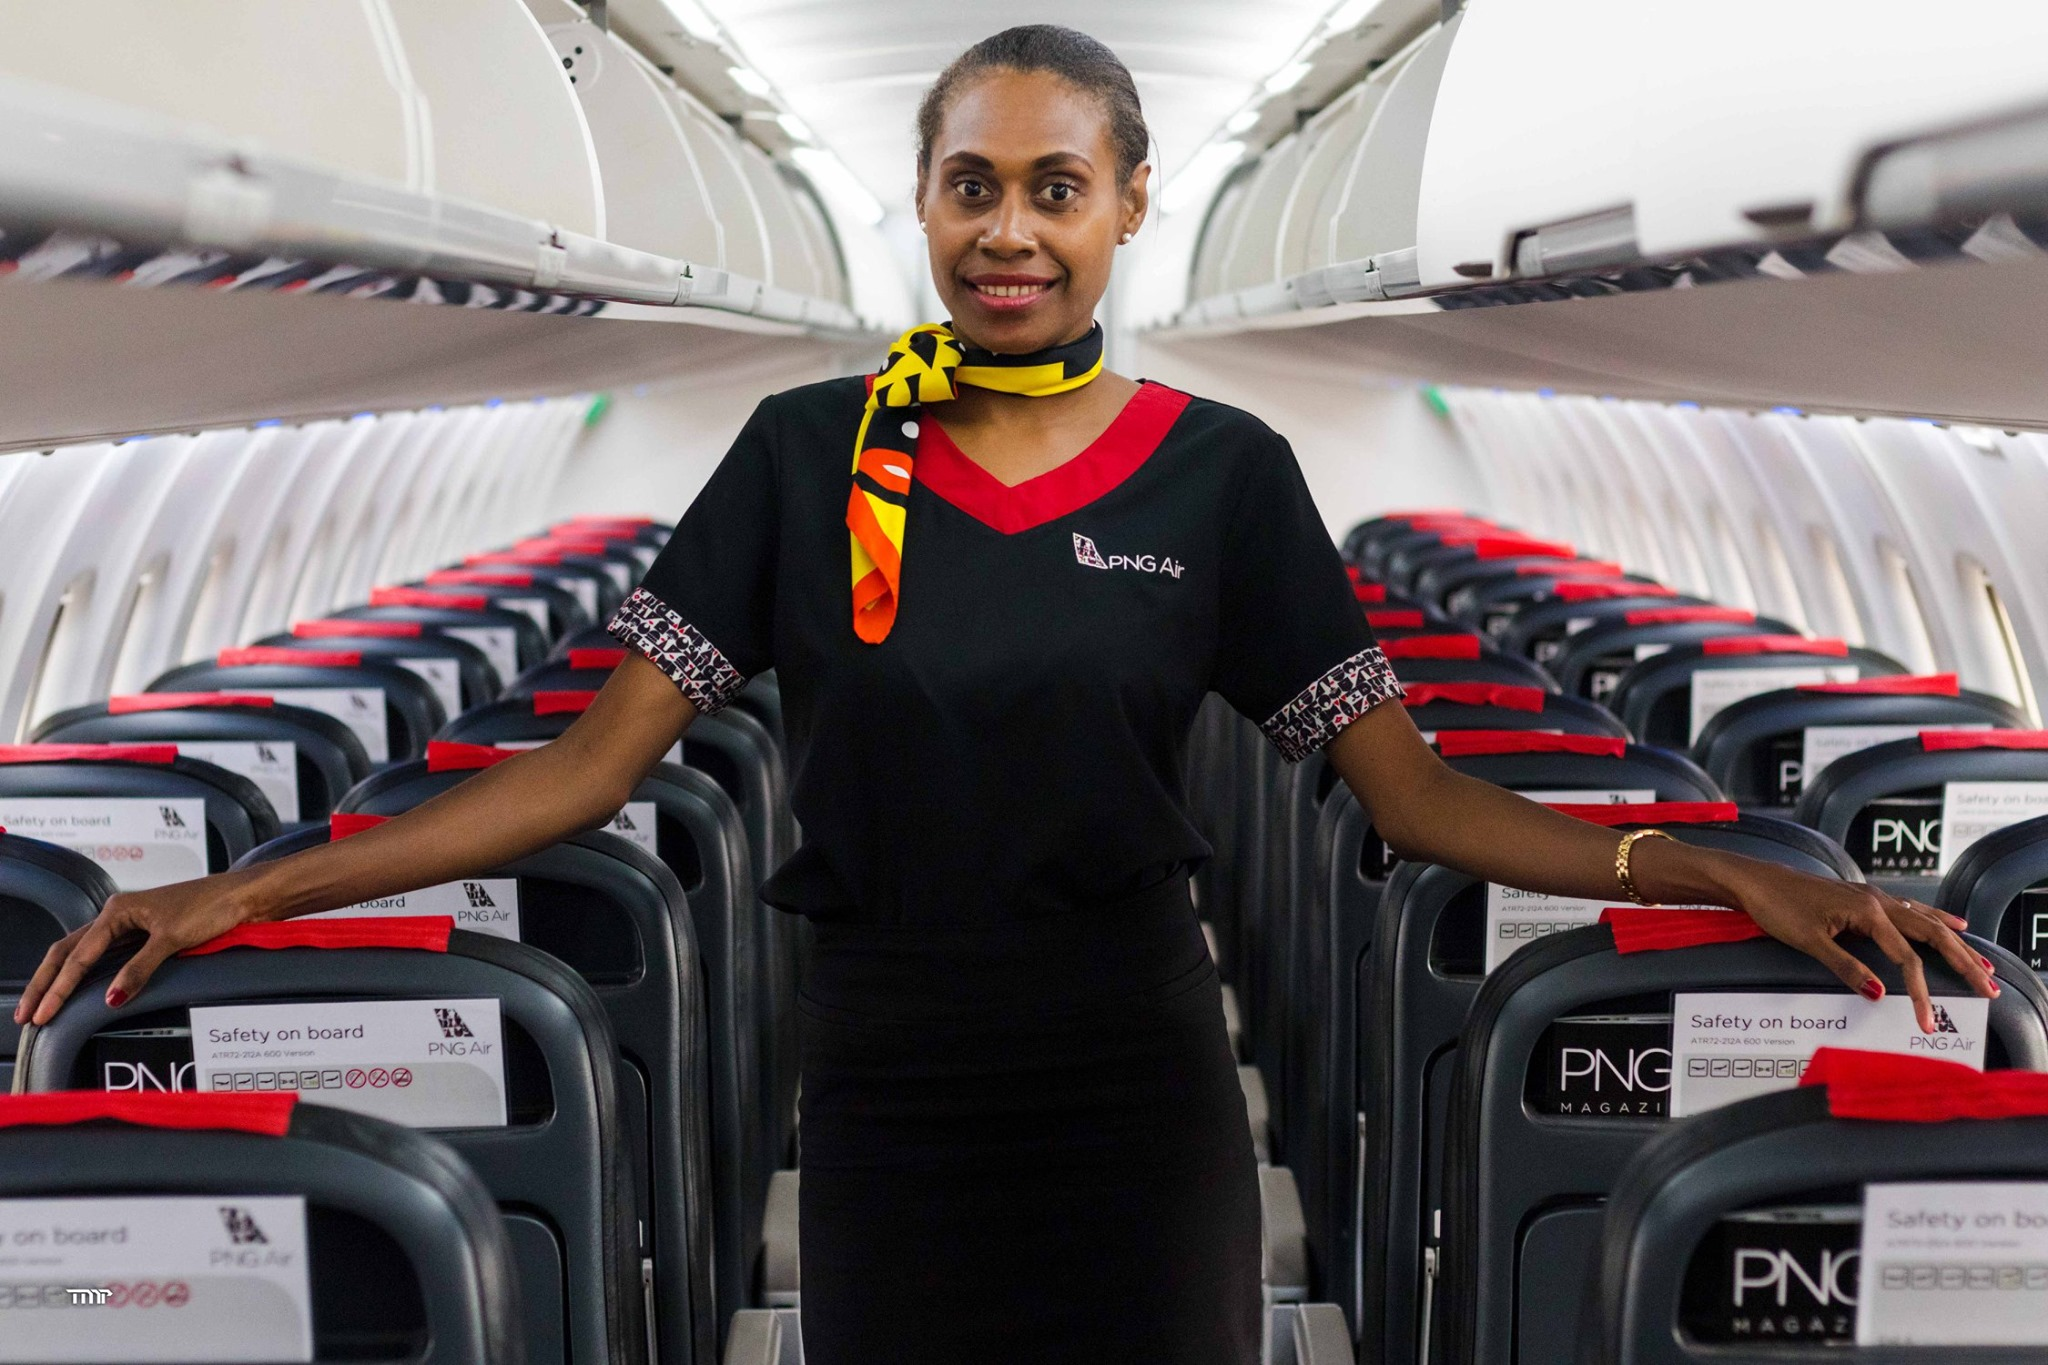
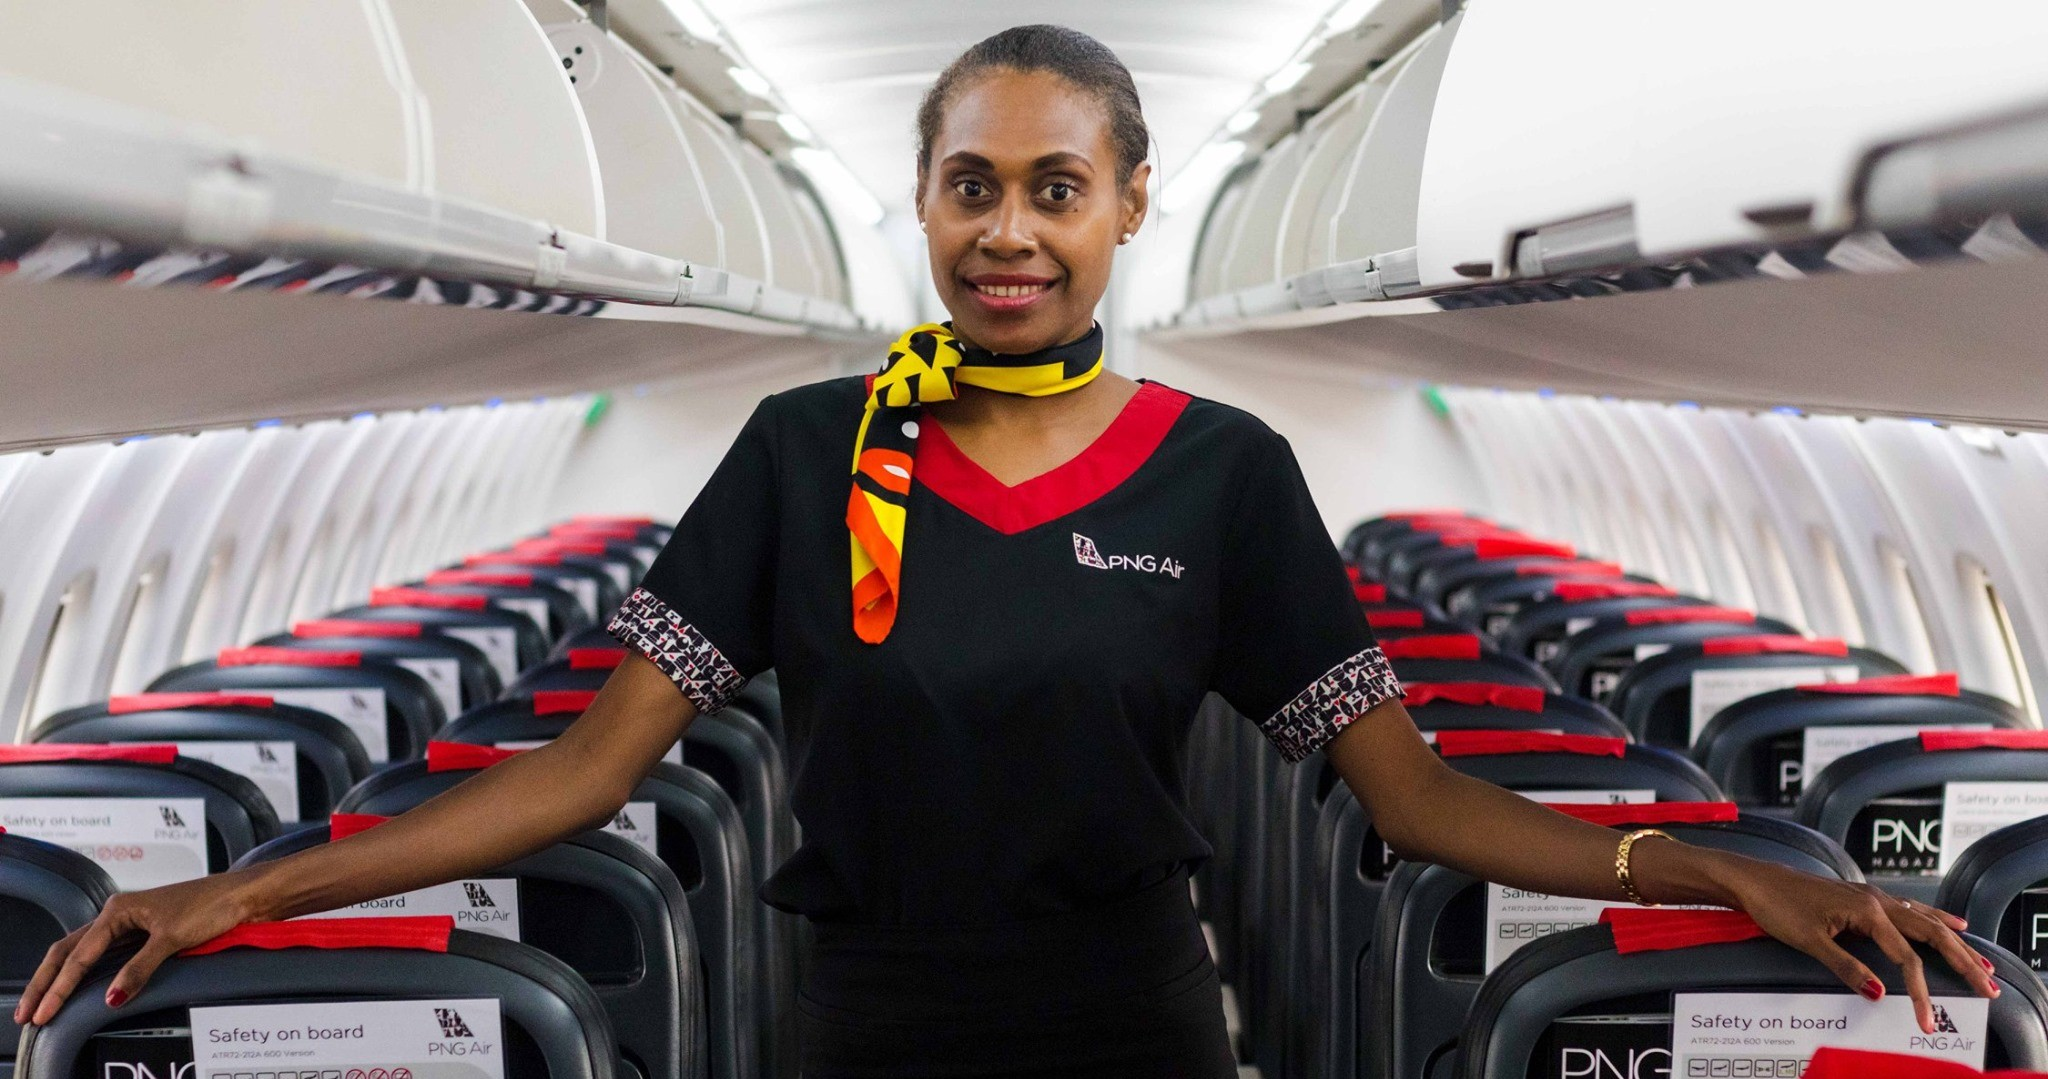
public images change

diff --git a/app/courses/cabin-crew/page.tsx b/app/courses/cabin-crew/page.tsx
@@ -1,13 +1,7 @@
-import { Metadata } from 'next';
 import Link from 'next/link';
-import Navbar from '@/components/Navbar';
-import Footer from '@/components/Footer';
-import PageHero from '@/components/PageHero';
-import NextSteps from '@/components/NextSteps';
-
-export const metadata: Metadata = {
-  title: 'Cabin Crew Training',
-};
+import Navbar from '../../components/Navbar';
+import Footer from '../../components/Footer';
+import PageHero from '../../components/PageHero';
 
 export default function CabinCrewPage() {
   return (
@@ -16,38 +10,32 @@ export default function CabinCrewPage() {
       <div className="grow">
         <PageHero 
           title="Cabin Crew Training"
-          subtitle="Excellence in safety and service. Prepare for an elite career with top global airlines."
+          subtitle="Excellence in safety and service. Prepare for a career with top global airlines."
           backgroundImage="/air-hoster.jpg"
         />
 
         <div className="container mx-auto px-6 py-20 text-center">
-          <div className="max-w-4xl mx-auto bg-slate-50 p-10 md:p-16 rounded-[3rem] border border-slate-100 shadow-sm relative overflow-hidden">
-            <div className="relative z-10">
-                <span className="bg-aerojet-sky text-white px-5 py-1.5 rounded-full text-[10px] font-black uppercase tracking-[0.2em] mb-8 inline-block">
-                Accepting Expressions of Interest
-                </span>
-                <h2 className="text-3xl md:text-5xl font-black text-aerojet-blue uppercase tracking-tight mb-6">
-                Become the Face of the Airline
-                </h2>
-                <p className="text-slate-600 text-lg mb-8 leading-relaxed font-medium">
-                Our upcoming Cabin Crew training module is designed to meet international safety and service standards. You will master emergency procedures, first aid, customer service excellence, and aviation regulations.
-                </p>
-                <p className="text-slate-500 mb-12 max-w-2xl mx-auto">
-                Join our priority waitlist to receive the syllabus, fee structure, and physical requirement guidelines as soon as they are released.
-                </p>
+          <div className="max-w-3xl mx-auto bg-gray-50 p-10 rounded-2xl border border-gray-200 shadow-sm">
+            <span className="bg-aerojet-sky text-white px-4 py-1 rounded-full text-sm font-bold uppercase tracking-wider mb-6 inline-block">
+              Coming Soon
+            </span>
+            <h2 className="text-3xl font-bold text-aerojet-blue mb-4">
+              Become the Face of the Airline
+            </h2>
+            <p className="text-gray-600 mb-8 leading-relaxed">
+              Our upcoming Cabin Crew training module is designed to meet international safety and service standards. You will learn emergency procedures, first aid, customer service excellence, and aviation regulations.
+            </p>
+            <p className="text-gray-600 mb-10">
+              Join the waitlist to receive the syllabus and fee structure as soon as it is released.
+            </p>
 
-                <Link 
-                href="/contact?interest=Cabin%20Crew" 
-                className="bg-aerojet-sky text-white px-12 py-4 rounded-xl font-black uppercase tracking-widest text-sm hover:bg-aerojet-blue transition-all shadow-lg shadow-blue-100 active:scale-95 inline-block"
-                >
-                Join the Priority Waitlist
-                </Link>
-            </div>
+            <Link 
+              href="/contact?interest=Cabin%20Crew" 
+              className="bg-aerojet-gold text-aerojet-blue px-10 py-4 rounded-md font-bold text-lg hover:bg-opacity-90 transition inline-block"
+            >
+              Join the Waitlist
+            </Link>
           </div>
-        </div>
-
-        <div className="container mx-auto px-6 pb-20">
-            <NextSteps />
         </div>
       </div>
       <Footer />

diff --git a/app/components/PageHero.tsx b/app/components/PageHero.tsx
@@ -1,3 +1,5 @@
+import Image from "next/image";
+
 type PageHeroProps = {
   title: string;
   subtitle: string;
@@ -6,15 +8,34 @@ type PageHeroProps = {
 
 export default function PageHero({ title, subtitle, backgroundImage }: PageHeroProps) {
   return (
-    <section className="relative py-24 md:py-32 bg-black">
-      <div 
-        className="absolute inset-0 bg-cover bg-center opacity-40"
-        style={{ backgroundImage: `url(${backgroundImage})` }}
+    // 1. INCREASED HEIGHT: Changed h-[70vh] to h-[85vh] to "zoom out" the image
+    <section className="relative w-full h-[60vh] md:h-[85vh] flex items-center justify-center bg-slate-950 overflow-hidden">
+      
+      <Image
+        src={backgroundImage}
+        alt={title}
+        fill
+        priority
+        // 2. POSITION ADJUSTMENT: Added 'object-top' to prioritize the top of the photo (heads/faces)
+        className="object-cover object-center opacity-50"
+        quality={100} 
       />
-      <div className="absolute inset-0 bg-linear-to-t from-black/50 to-transparent" />
-      <div className="relative container mx-auto px-6 text-center text-white">
-        <h1 className="text-4xl md:text-5xl font-bold tracking-tight">{title}</h1>
-        <p className="mt-4 text-lg text-gray-300 max-w-3xl mx-auto">{subtitle}</p>
+
+      {/* GRADIENT OVERLAYS */}
+      <div className="absolute inset-0 bg-linear-to-t from-slate-950 via-slate-950/20 to-transparent z-10" />
+      <div className="absolute inset-0 bg-black/10 z-10" />
+
+      {/* TEXT CONTENT */}
+      <div className="relative container mx-auto px-6 text-center text-white z-20 mt-20">
+        <div className="max-w-5xl mx-auto">
+            <h1 className="text-4xl md:text-8xl font-black uppercase tracking-tighter leading-[0.85] mb-8 drop-shadow-2xl">
+                {title}
+            </h1>
+            <div className="w-24 h-2 bg-aerojet-sky mx-auto mb-8 rounded-full shadow-lg" />
+            <p className="text-lg md:text-2xl text-slate-200 max-w-3xl mx-auto font-medium leading-relaxed drop-shadow-md">
+                {subtitle}
+            </p>
+        </div>
       </div>
     </section>
   );

diff --git a/app/components/Credibility.tsx b/app/components/Credibility.tsx
@@ -2,23 +2,23 @@ import Image from 'next/image';
 
 const partners = [
   { name: 'EASA', src: '/easa-logo.png', width: 120, height: 40 },
-  { name: 'USTDA', src: '/ustda.jpg', width: 150, height: 40 },
-  { name: 'Ghana Air Force', src: '/Airforce-logo.png', width: 65, height: 65 }, // Increased size
-  { name: 'Joramco', src: '/Joramco-Logo-AI.png', width: 150, height: 35 },     // Replaced logo
-  { name: 'Gaptek', src: '/Logotip-GAPTEK.jpg', width: 140, height: 40 },       // Added logo
+  { name: 'USTDA', src: '/ustda.jpg', width: 120, height: 40 },
+  { name: 'Ghana Air Force', src: '/Airforce-logo.png', width: 120, height: 40 },
+  { name: 'Joramco', src: '/Joramco-Logo-AI.png', width: 120, height: 35 },
+  { name: 'Gaptek', src: '/Logotip-GAPTEK.jpg', width: 120, height: 40 },
   { name: 'Aerojet Foundation', src: '/foundation-logo.png', width: 130, height: 40 },
 ];
 
 export default function Credibility() {
   return (
-    <section className="bg-gray-50 py-12">
+    <section className="bg-slate-50 py-16">
       <div className="container mx-auto px-6 text-center">
-        <h3 className="text-sm font-bold text-gray-500 uppercase tracking-widest mb-8">
-          Our Partners & Standards
+        <h3 className="text-[10px] font-black text-slate-400 uppercase tracking-[0.3em] mb-12">
+          Partners & Certification Standards
         </h3>
-        <div className="flex flex-wrap justify-center items-center gap-x-10 gap-y-6 md:gap-x-16">
+        <div className="flex flex-wrap justify-center items-center gap-x-12 gap-y-8 md:gap-x-20">
           {partners.map((partner) => (
-            <div key={partner.name} className="grayscale hover:grayscale-0 transition duration-300 opacity-70 hover:opacity-100">
+            <div key={partner.name} className="grayscale hover:grayscale-0 transition-all duration-500 opacity-60 hover:opacity-100 transform hover:scale-105">
               <Image
                 src={partner.src}
                 alt={partner.name}

diff --git a/app/components/ProgramsSnapshot.tsx b/app/components/ProgramsSnapshot.tsx
@@ -5,18 +5,18 @@ const programs = [
   {
     title: "Full-Time Licence Programmes",
     description: "Comprehensive 2 or 4-year pathways to B1.1/B2 licensure. Includes theory, hand-skills, and work experience.",
-    image: "/4-yrFull-time.jpg", // Updated Hero Image
+    image: "/fulltime.jpg", // Updated Hero Image
     link: "/courses/easa-full-time",
     badge: "Most Popular",
-    ratio: "aspect-[848/317]" // Wide Ratio
+    ratio: "aspect-video" 
   },
   {
     title: "12-Month Crash Course",
     description: "Accelerated B1.1 certification for industry professionals. Theory & exams only.",
-    image: "/1-yrFull-time.jpg",
+    image: "/12month.jpg",
     link: "/courses/easa-full-time",
     badge: "Industry",
-    ratio: "aspect-[848/317]" // Wide Ratio
+    ratio: "aspect-video"
   },
   {
     title: "Modular Training",

diff --git a/app/courses/pilot-training/page.tsx b/app/courses/pilot-training/page.tsx
@@ -17,7 +17,7 @@ export default function PilotTrainingPage() {
         <PageHero 
           title="Pilot Training"
           subtitle="Take to the skies. Our world-class flight training programme is currently in development."
-          backgroundImage="/female-pilot.jpg"
+          backgroundImage="/pilot.jpg"
         />
 
         <div className="container mx-auto px-6 py-20 text-center">

diff --git a/app/admissions/fees/page.tsx b/app/admissions/fees/page.tsx
@@ -17,7 +17,7 @@ export default function FeesPage() {
         <PageHero 
           title="Fees & Payment Rules"
           subtitle="Understanding the structured payment milestones for Aerojet Academy training programmes."
-          backgroundImage="/techSupport.jpg"
+          backgroundImage="/feespayment.jpg"
         />
         
         <div className="container mx-auto px-6 py-20">

diff --git a/app/admissions/entry-requirements/page.tsx b/app/admissions/entry-requirements/page.tsx
@@ -17,7 +17,7 @@ export default function EntryRequirementsPage() {
         <PageHero 
           title="Entry Requirements"
           subtitle="Ensure you meet the academic and professional criteria for our EASA programmes."
-          backgroundImage="/joystick.jpg"
+          backgroundImage="/entry1.jpg"
         />
 
         <div className="container mx-auto px-6 py-20">

diff --git a/app/admissions/page.tsx b/app/admissions/page.tsx
@@ -26,7 +26,7 @@ export default function AdmissionsPage() {
         <PageHero 
           title="Admissions & Enrollment"
           subtitle="Start your career in aviation with our clear, structured enrollment process."
-          backgroundImage="/takeoff.jpg"
+          backgroundImage="/admissions.jpg"
         />
 
         <div className="container mx-auto px-6 py-20">

diff --git a/app/about/page.tsx b/app/about/page.tsx
@@ -18,7 +18,7 @@ export default function AboutPage() {
         <PageHero 
           title="About Aerojet Academy"
           subtitle="Building the future of African aviation, one certified technician at a time."
-          backgroundImage="/aircraft-full.jpg"
+          backgroundImage="/students.png"
         />
 
         <div className="container mx-auto px-6 py-20">

diff --git a/app/news/page.tsx b/app/news/page.tsx
@@ -34,7 +34,7 @@ export default async function NewsroomPage() {
         <PageHero 
           title="News & Updates"
           subtitle="Stay informed about our latest intakes, partnerships, and facility milestones."
-          backgroundImage="/lecturer2.jpg"
+          backgroundImage="/news.jpg"
         />
 
         <div className="container mx-auto px-6 py-20">

diff --git a/app/courses/modules/page.tsx b/app/courses/modules/page.tsx
@@ -45,7 +45,7 @@ export default function ModulesPage() {
         <PageHero 
           title="Module Requirements"
           subtitle="The EASA Part-66 knowledge syllabus for B1 and B2 certification."
-          backgroundImage="/undercarage.jpg"
+          backgroundImage="/courselist.jpg"
         />
 
         <div className="container mx-auto px-6 py-20">
